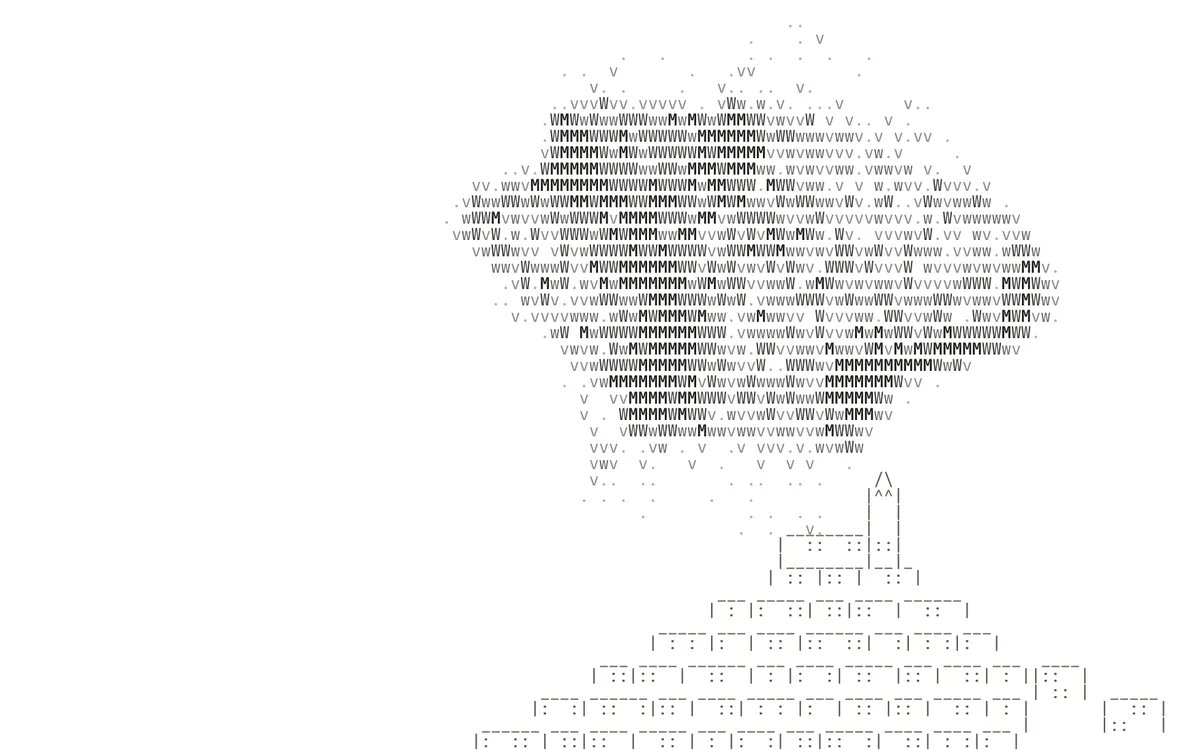
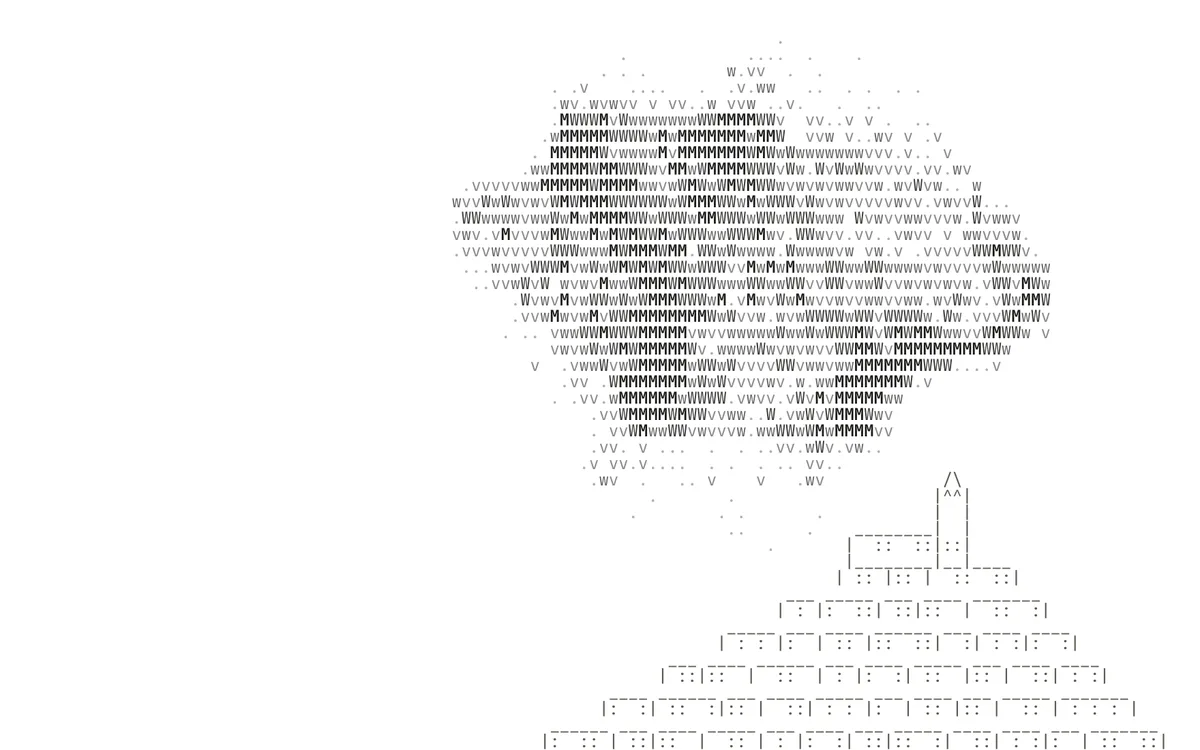
Murmuration : le village descend en escalier régulier des deux côtés (plus de maisons à l'écart en bas à droite)

diff --git a/src/features/murmuration/village.ts b/src/features/murmuration/village.ts
@@ -1,22 +1,22 @@
 // Le village perché, en bas à droite (d'après une photo d'Eus, dans les Pyrénées-Orientales) : l'église et son
-// clocher carré au sommet, les maisons serrées en rangées qui descendent longtemps vers la gauche et peu vers la
-// droite, et deux maisons à l'écart plus bas à droite
+// clocher carré au sommet, les maisons serrées en rangées qui descendent en escalier régulier, longtemps vers la
+// gauche et moins vers la droite
 export const VILLAGE = [
   '                                         /\\',
   '                                        |^^|',
   '                                        |  |',
   '                                ________|  |',
   '                               |  ::  ::|::|',
-  '                               |________|__|_',
-  '                              | :: |:: |  :: |',
-  '                         ___ _____ ___ ____ ______',
-  '                        | : |:  ::| ::|::  |  ::  |',
-  '                   _____ ___ ____ ______ ___ ____ ___',
-  '                  | : : |:  | :: |::  ::|  :| : :|:  |',
-  '             ___ ____ ______ ___ ____ _____ ___ ____ ___  ____',
-  '            | ::|::  |  ::  | : |:  :| ::  |:: |  ::| : ||::  |',
-  '       ____ ______ ___ ____ _____ ___ ____ ___ _____ ___ | :: |  _____',
-  '      |:  :| ::  :|:: |  ::| : : |:  | :: |:: |  :: | : |       |  :: |',
-  ' ______ ___ ____ _____ ___ ____ ___ _____ ____ ____ ___ |       |::   |',
-  '|:  :: | ::|::  |  :: | : |:  :| ::|::  :|  ::| : :|:  |',
+  '                               |________|__|____',
+  '                              | :: |:: |  ::  ::|',
+  '                         ___ _____ ___ ____ _______',
+  '                        | : |:  ::| ::|::  |  ::  :|',
+  '                   _____ ___ ____ ______ ___ ____ ____',
+  '                  | : : |:  | :: |::  ::|  :| : :|:  :|',
+  '             ___ ____ ______ ___ ____ _____ ___ ____ ____',
+  '            | ::|::  |  ::  | : |:  :| ::  |:: |  ::| : :|',
+  '       ____ ______ ___ ____ _____ ___ ____ ___ _____ _______',
+  '      |:  :| ::  :|:: |  ::| : : |:  | :: |:: |  :: | : : : |',
+  ' ______ ___ ____ _____ ___ ____ ___ _____ ____ ____ ___ _______',
+  '|:  :: | ::|::  |  :: | : |:  :| ::|::  :|  ::| : :|:  | ::  ::|',
 ].join('\n')

diff --git a/src/content/content.ts b/src/content/content.ts
@@ -98,7 +98,7 @@ export const projects: Project[] = [
     kind: 'Animation ASCII',
     stack: ['TypeScript'],
     image: '/shots/murmuration.webp', // capture de la page, en plein vol
-    alt: 'Sur une page blanche, un grand nuage d’oiseaux dessiné en caractères (des points, des v, des W plus foncés là où ils se croisent) au-dessus d’un village perché, son clocher et ses maisons en gradins, en bas à droite.',
+    alt: 'Sur une page blanche, un grand nuage d’oiseaux dessiné en caractères (des points, des v, des W plus foncés là où ils se croisent) au-dessus d’un village perché, son clocher et ses maisons en escalier, en bas à droite.',
     // Une page de ce site, à l'adresse /murmuration (lien relatif : il marche aussi en local)
     demo: '/murmuration/',
     code: 'https://github.com/garancewetz/portfolio-2026/tree/main/src/features/murmuration',
